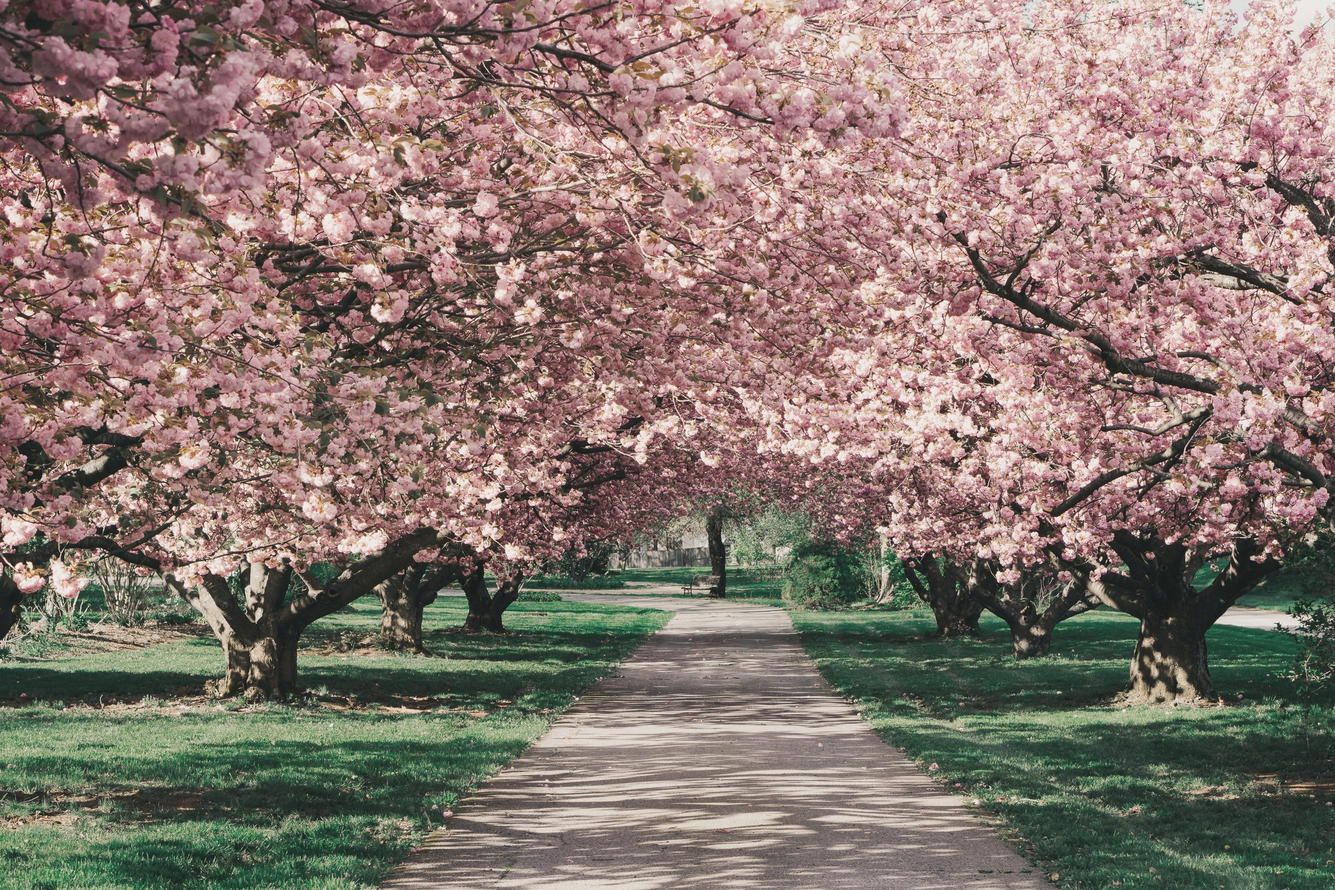
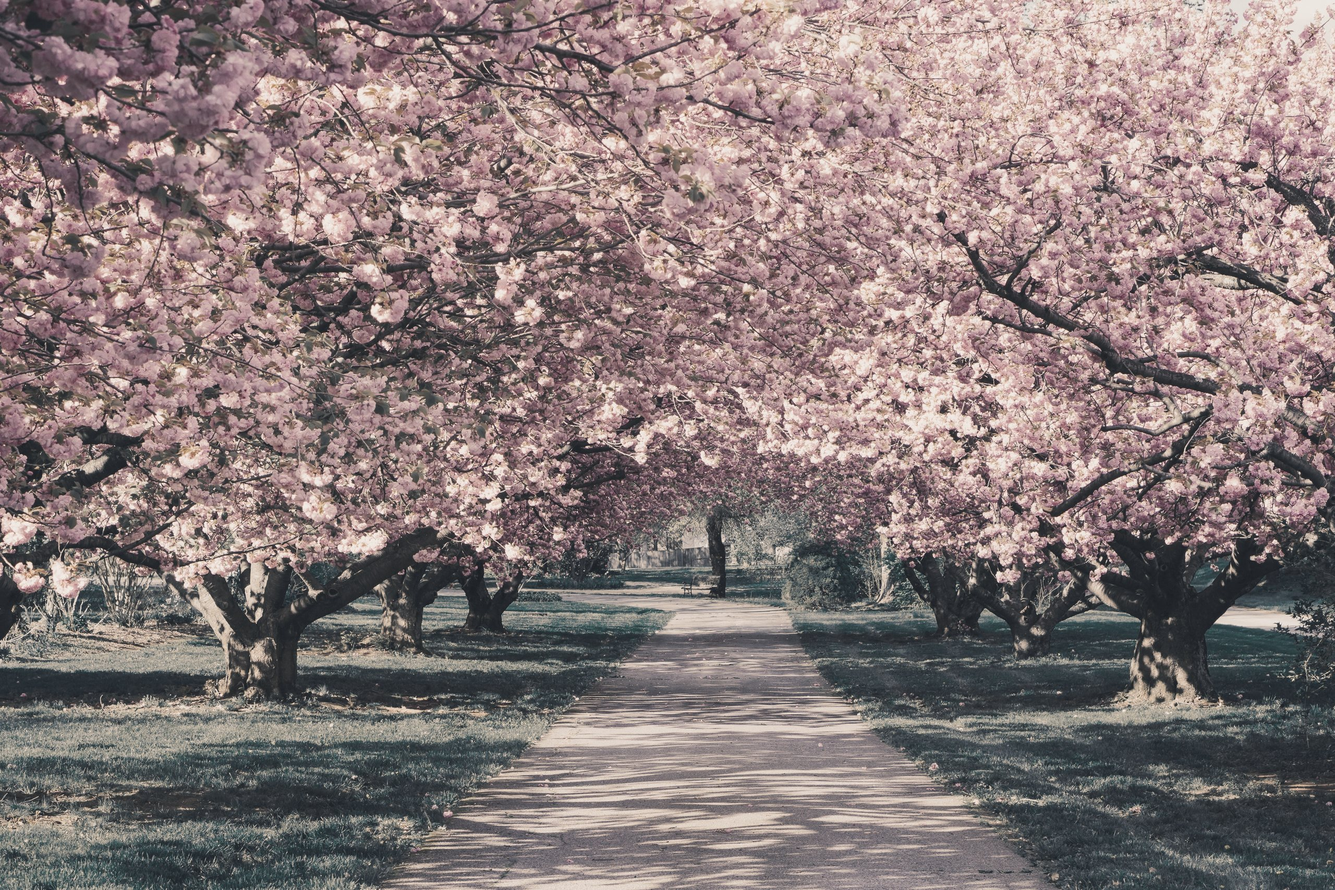
style: luz de amanhecer única mais forte e caminhos recentrados atrás da cachorra

diff --git a/src/components/passeio/Passeio.tsx b/src/components/passeio/Passeio.tsx
@@ -180,8 +180,11 @@ export function Passeio() {
           className="pointer-events-none absolute inset-0 bg-[linear-gradient(180deg,rgb(185_190_212/0.55)_0%,rgb(236_203_189/0.4)_48%,rgb(44_57_74/0.45)_100%)] mix-blend-soft-light"
         />
 
-        {/* véu escuro no alto: texto branco legível sobre qualquer foto */}
-        <div aria-hidden className="pointer-events-none absolute inset-x-0 top-0 h-[42svh] bg-[linear-gradient(rgb(16_20_30/0.55),rgb(16_20_30/0))]" />
+        {/* pêssego no terço de cima, como o sol baixo atravessando a névoa */}
+        <div aria-hidden className="pointer-events-none absolute inset-x-0 top-0 h-[34svh] bg-[linear-gradient(rgb(236_203_189/0.2),rgb(236_203_189/0))] mix-blend-screen" />
+
+        {/* véu ardósia no alto: texto branco legível sobre qualquer foto */}
+        <div aria-hidden className="pointer-events-none absolute inset-x-0 top-0 h-[40svh] bg-[linear-gradient(rgb(36_46_60/0.6),rgb(44_57_74/0.3)_55%,rgb(44_57_74/0))]" />
 
         {/* hero: o primeiro quadro do passeio */}
         <div

diff --git a/scripts/gradear.py b/scripts/gradear.py
@@ -16,7 +16,7 @@ MAPA_POS = np.array([0.0, 0.32, 0.58, 0.80, 1.0])
 MAPA_COR = np.array([[0x26, 0x30, 0x42], [0x66, 0x6E, 0x91], [0xC0, 0xA4, 0xB0], [0xF2, 0xC2, 0xA0], [0xFF, 0xF1, 0xE4]]) / 255
 GRUPOS = {
     # prefixo: (pasta, lado maior, luminância média alvo, saturação, força do tom, piso dos pretos)
-    "fundo-": ("passeio", 2560, 0.47, 0.86, 0.24, 0.02),
+    "fundo-": ("passeio", 2560, 0.46, 0.64, 0.36, 0.03),
     "card-": ("cards", 1400, 0.52, 0.92, 0.12, 0.015),  # leve: preserva o contraste da foto
 }
 
@@ -34,8 +34,19 @@ def gradear(img, alvo, sat, forca, piso):
     img = img * (1 - forca) + mapa * forca              # sombras frias, luzes pêssego
     return np.clip(piso + (1 - piso - 0.03) * img, 0, 1)  # pretos levantados = névoa de manhã
 
+# ajustes por foto: menos verde na alameda e no gramado e menos contraste na loja (sol duro)
+AJUSTES = {"fundo-2-alameda.jpg": {"verde": 0.5}, "fundo-4-gramado.jpg": {"verde": 0.6}, "fundo-5-loja-montada.jpg": {"contraste": 0.8}}
+
+def ajustar(img, verde=1.0, contraste=1.0):
+    if verde != 1.0:
+        excesso = np.clip(img[..., 1] - np.maximum(img[..., 0], img[..., 2]), 0, 1)[..., None]
+        img = img - excesso * (1 - verde) * np.array([-0.3, 1.0, -0.3])
+    if contraste != 1.0:
+        img = img.mean() + (img - img.mean()) * contraste
+    return np.clip(img, 0, 1)
+
 # a loja usa a montagem com o letreiro (scripts/preparar-passeio.py), não a foto crua
-IGNORAR = {"fundo-5-loja.jpg"}
+IGNORAR = {"fundo-5-loja.jpg", "fundo-5-loja-b.jpg"}
 NOME_FINAL = {"fundo-5-loja-montada.jpg": "fundo-5-loja.jpg"}
 
 for arquivo in sorted(ORIGEM.glob("*.jpg")):
@@ -45,7 +56,7 @@ for arquivo in sorted(ORIGEM.glob("*.jpg")):
     pasta, lado, *params = GRUPOS[prefixo]
     im = Image.open(arquivo).convert("RGB")
     im.thumbnail((lado, lado), Image.LANCZOS)
-    saida = gradear(np.asarray(im, dtype=np.float32) / 255, *params)
+    saida = gradear(ajustar(np.asarray(im, dtype=np.float32) / 255, **AJUSTES.get(arquivo.name, {})), *params)
     destino = RAIZ / "src" / "assets" / pasta / NOME_FINAL.get(arquivo.name, arquivo.name)
     Image.fromarray((saida * 255 + 0.5).astype(np.uint8)).save(destino, quality=84, optimize=True, progressive=True)
     print(f"{destino.relative_to(RAIZ)}  {im.width}x{im.height}  {destino.stat().st_size // 1024} KB")
